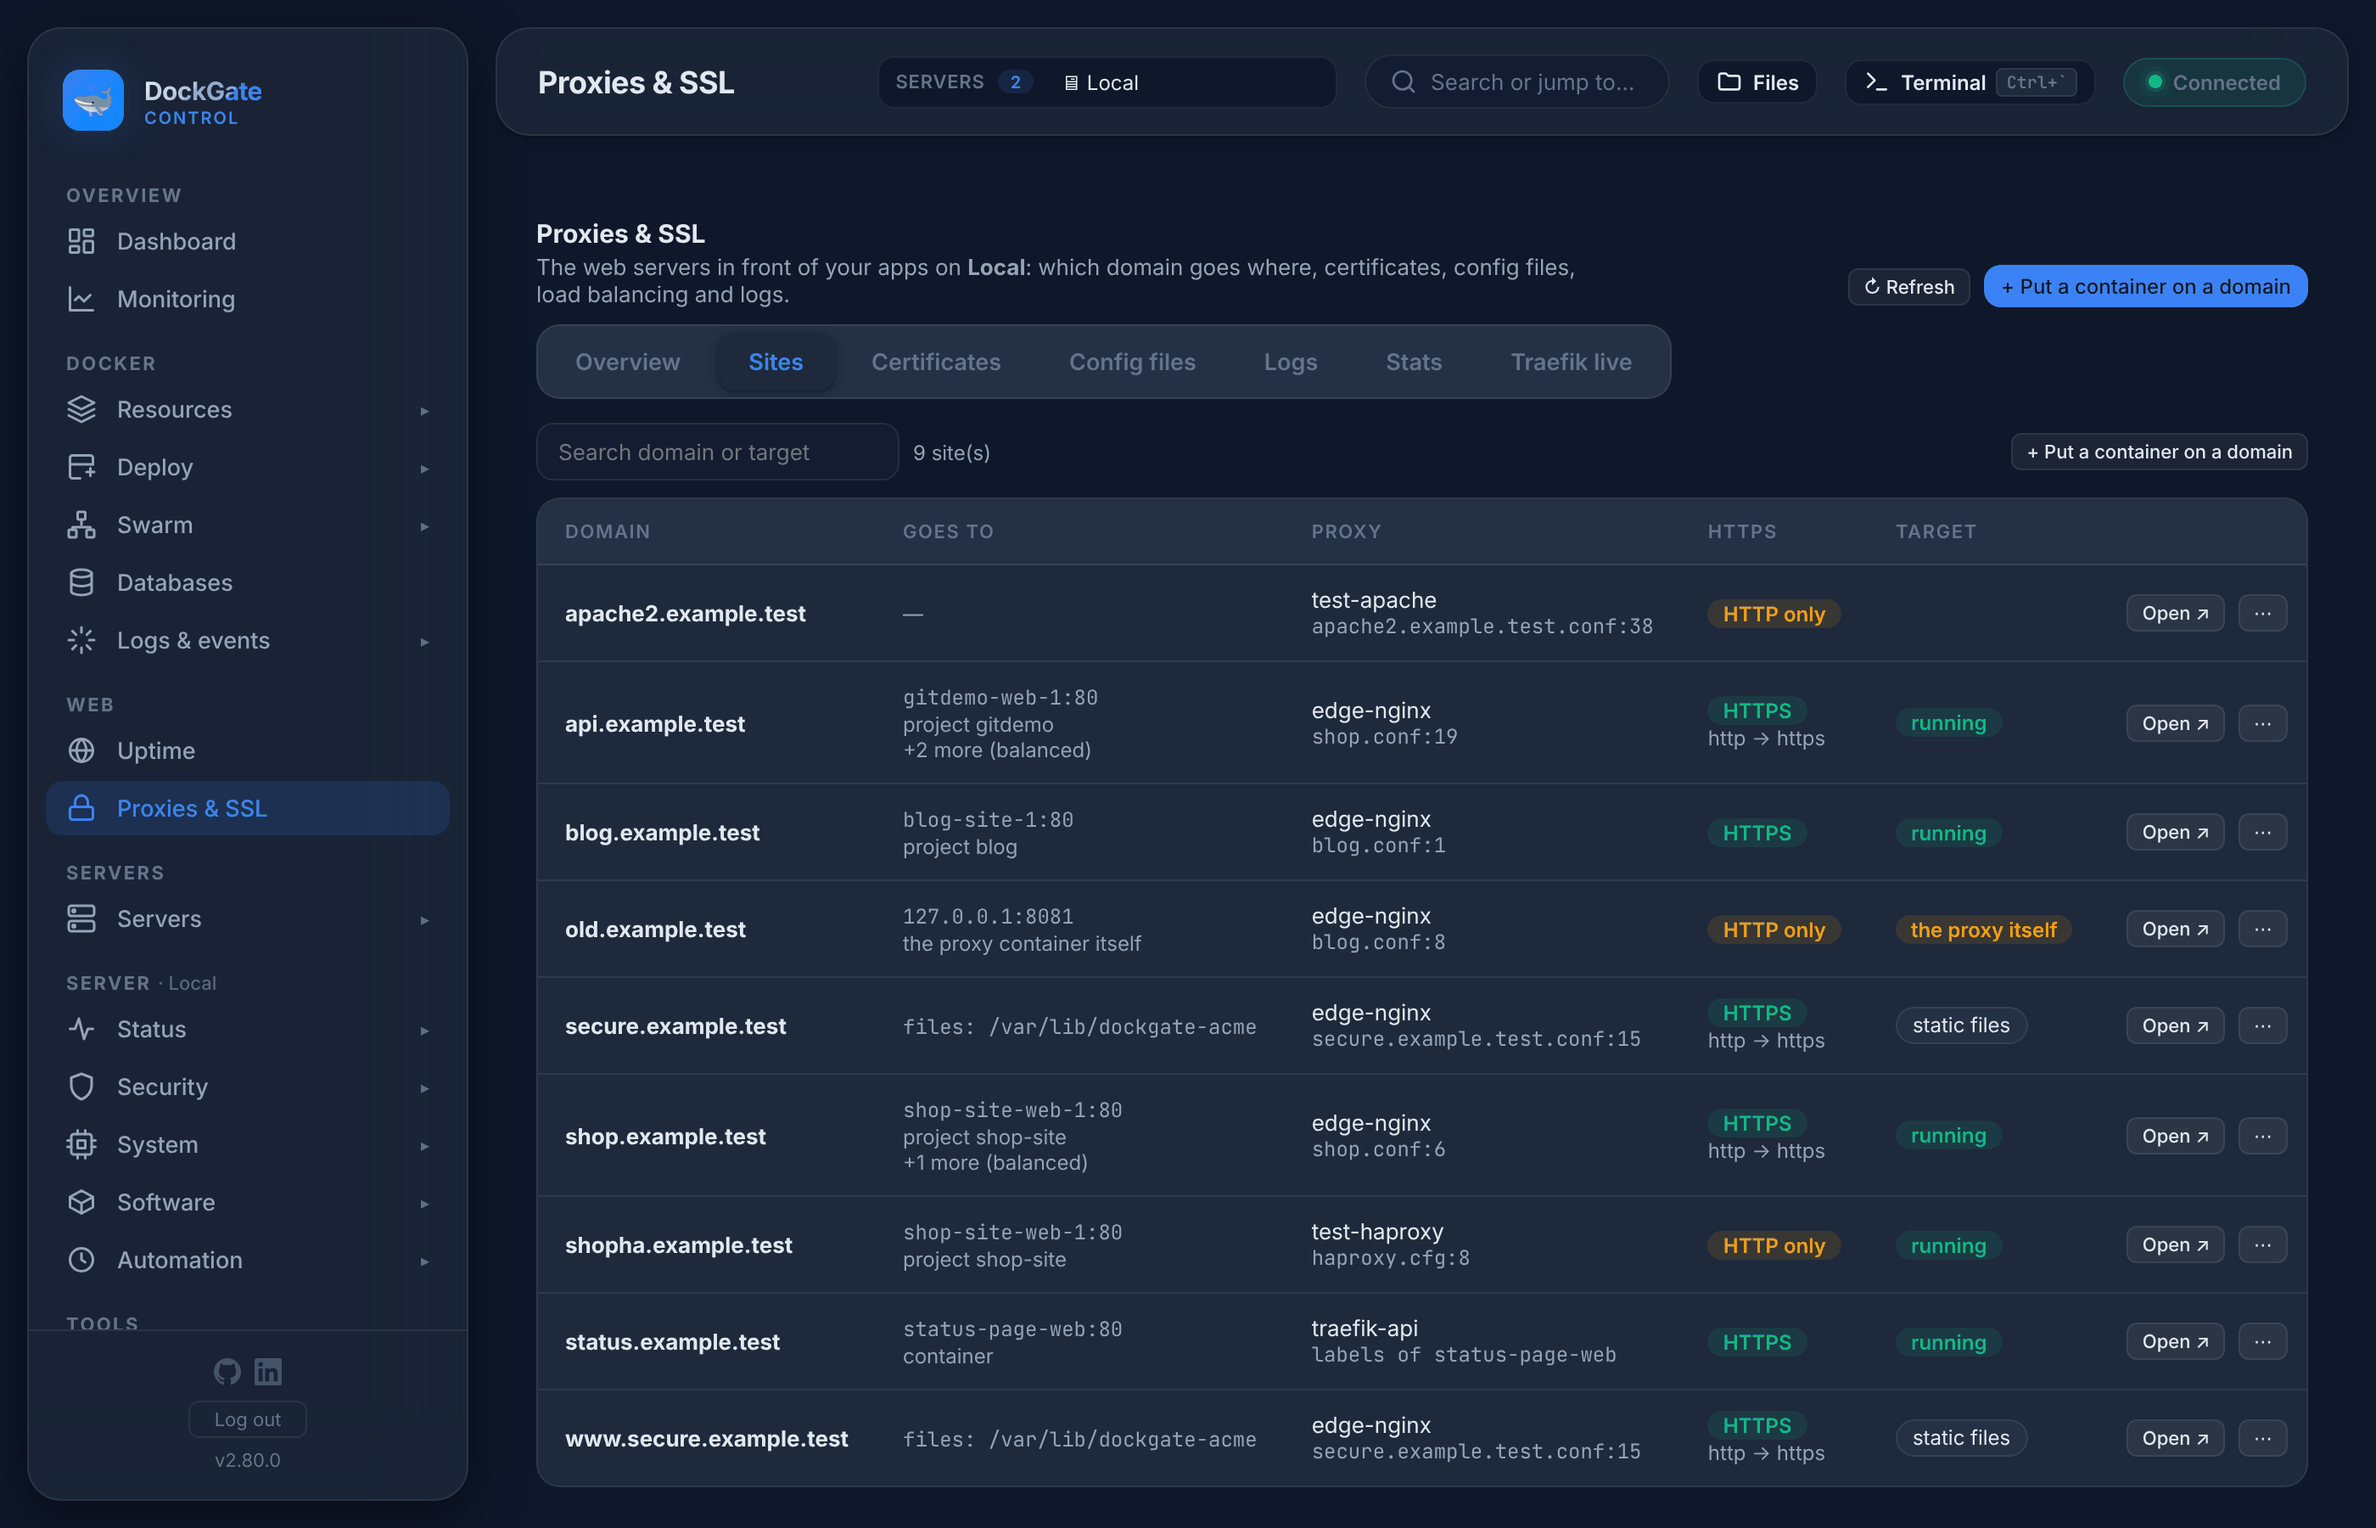
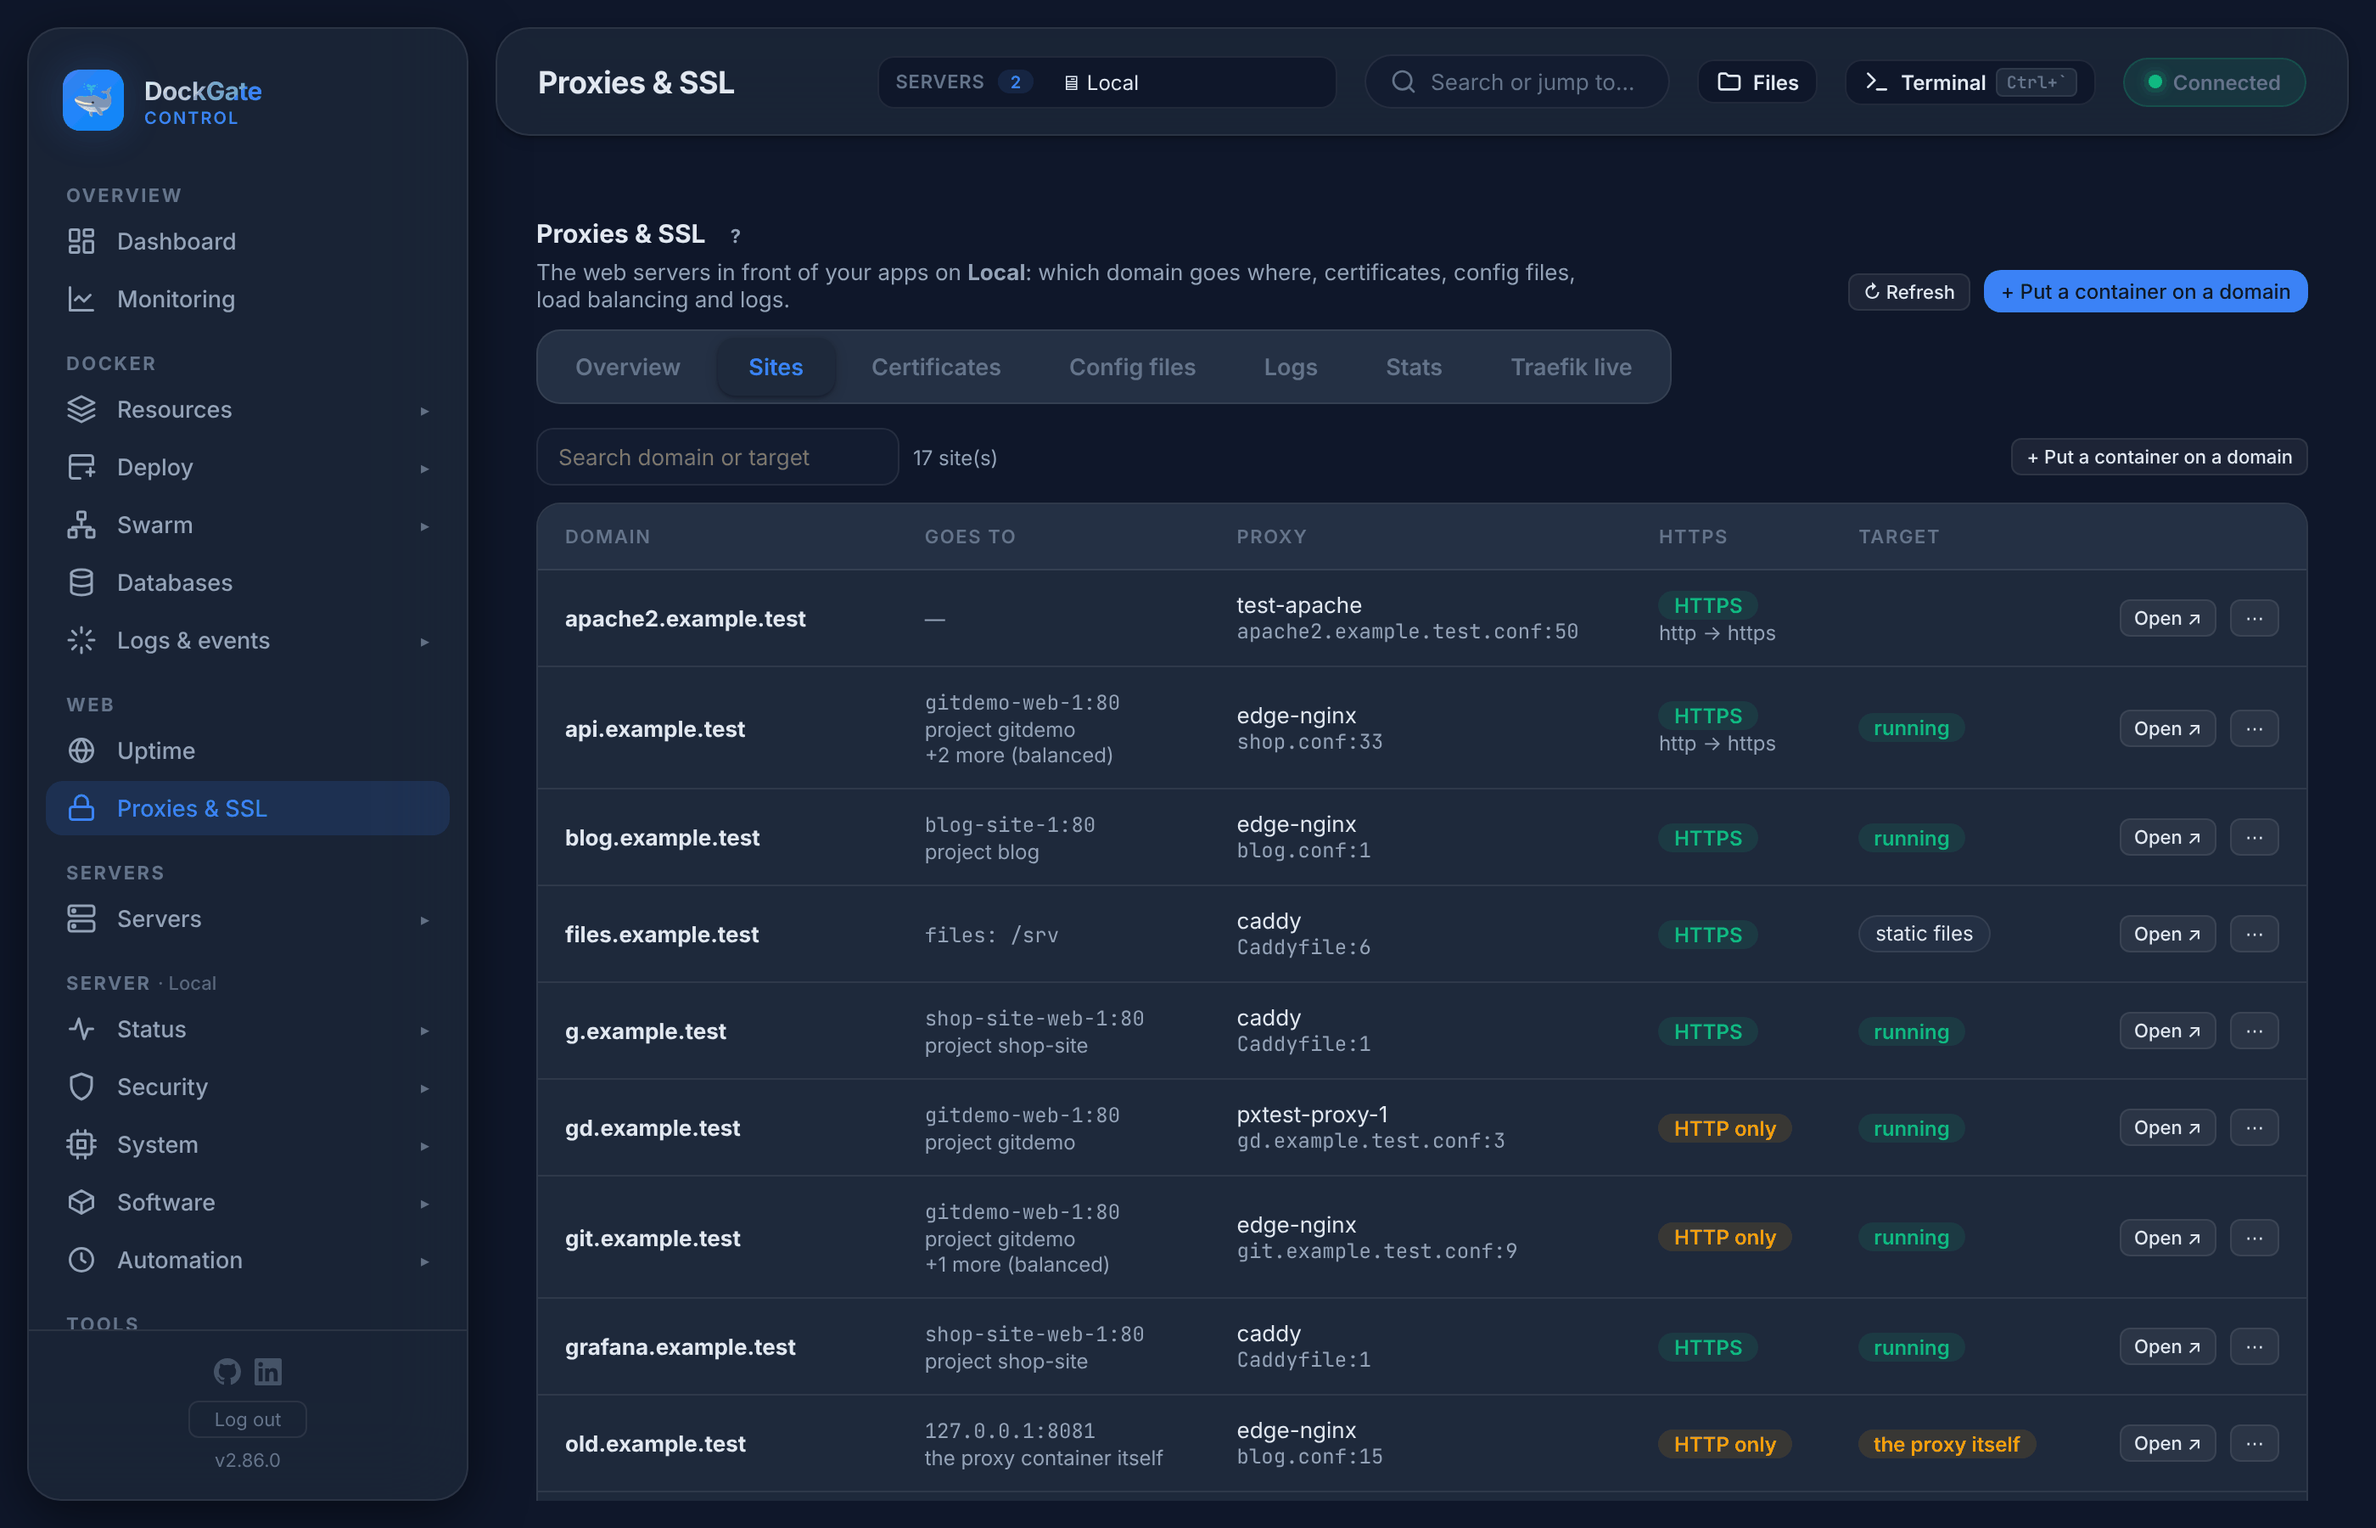
README, guide screenshots and demo GIF for Proxies & SSL
- README: Proxies & SSL (proxies on the server, certificates watched, Renew now) and the
  per-session access password; two new screenshots (Proxies & SSL, Certificates).
- guide/images/proxies-*.png taken again from the current pages.
- The demo GIF shows Proxies & SSL (proxies, sites, certificates).

diff --git a/README.md b/README.md
@@ -28,7 +28,7 @@
 </p>
 
 <p align="center">
-  <img src="screenshots/00-demo.gif" alt="DockGate: dashboard, containers, Swarm, the database client, Server sections (Status, Security, Software, Automation), Deploy tasks and monitoring" width="100%">
+  <img src="screenshots/00-demo.gif" alt="DockGate: dashboard, containers, Swarm, the database client, Proxies &amp; SSL (proxies, sites, certificates), Deploy projects, Server sections (Status, Security, Software, Automation) and monitoring" width="100%">
 </p>
 
 ---
@@ -38,10 +38,10 @@
 - **Docker** — containers, images, volumes, networks and builds, with logs, a terminal and file editing inside containers.
 - **Compose** — create, edit and deploy projects locally or on a remote server, with deploy history and image updates. **Tasks** runs your Makefile, justfile, npm scripts and deploy.sh, and **deploy recipes** deploy on a GitHub / GitLab / Bitbucket push with checks and rollback. Replicas, auto-heal, Auto Scaling and updates without downtime — **without Swarm**, your compose files untouched.
 - **Docker Swarm** — set up a cluster and move Compose projects and containers to it and back, as well protected as before. Each service gets its own page; published ports are firewalled on every server at once.
-- **Servers** — provision, secure (SSH, users, firewall, fail2ban) and monitor any number of hosts over SSH; cron jobs with alerts, **scripts** (templates, blocks or your own shell), system settings (network with automatic rollback, DNS, kernel, disks) and a file manager with a safe editor.
+- **Servers** — provision, secure (SSH, users, firewall, fail2ban) and monitor any number of hosts over SSH, each with an optional access password asked once per session; cron jobs with alerts, **scripts** (templates, blocks or your own shell), system settings (network with automatic rollback, DNS, kernel, disks) and a file manager with a safe editor.
 - **Databases** — a database client for PostgreSQL in your containers, on any server: an Explorer tree, tabs and right-click menus; tables edited like a spreadsheet, a SQL editor with autocomplete and plans, table design (columns, indexes, keys) with a rolled-back Test, export to SQL / CSV / Excel, `.sql` and CSV import, test data, users, backups — read-only until you allow changes, no port opened.
 - **Uptime** — checks your sites (HTTP, SSL, TCP, DNS) from DockGate and from your other servers, linked to the containers behind them.
-- **Proxies & SSL** — nginx, Caddy, Traefik, HAProxy and Apache: which domain goes to which container, putting a container on a domain, Let's Encrypt certificates that DockGate gets and renews, a config editor that checks, reloads and puts the old file back if a site breaks, load balancing, logs, stats and Traefik's live routers.
+- **Proxies & SSL** — nginx, Caddy, Traefik, HAProxy and Apache, in containers (images built from them too) or installed on the server: which domain goes to which container, putting a container on a domain, Let's Encrypt certificates that DockGate gets and renews (or you renew by hand), every certificate watched with alerts before it expires, a config editor that checks, reloads and puts the old file back if a site breaks, load balancing, logs, stats and Traefik's live routers.
 - **Alerts** — Telegram, email and webhook, plus an optional Edge agent that keeps alerting — and keeps replicas, healing and Auto Scaling running — when DockGate is offline.
 - **Light** — at most 256 MB RAM and 0.5 CPU; plain JavaScript, no build step, works offline.
 
@@ -131,6 +131,10 @@ Never add `:z` / `:Z` to the `/var/run/docker.sock` mount.
 <tr>
 <td width="50%"><img src="screenshots/37-project.png" alt="A project's page"><br><sub><b>A project's page</b> — Overview, Services, Files, Deploys, Automation (auto-deploy in one click), Settings</sub></td>
 <td width="50%"><img src="screenshots/38-new-project.png" alt="New project"><br><sub><b>New project</b> — Git, a folder, already on the server, YAML, template, or connect a stack to Git</sub></td>
+</tr>
+<tr>
+<td width="50%"><img src="screenshots/39-proxies.png" alt="Proxies & SSL"><br><sub><b>Proxies & SSL</b> — which domain goes to which container, in every proxy on the server</sub></td>
+<td width="50%"><img src="screenshots/40-certificates.png" alt="Certificates"><br><sub><b>Certificates</b> — who renews each one, Renew now, alerts before expiry</sub></td>
 </tr>
 </table>
 
